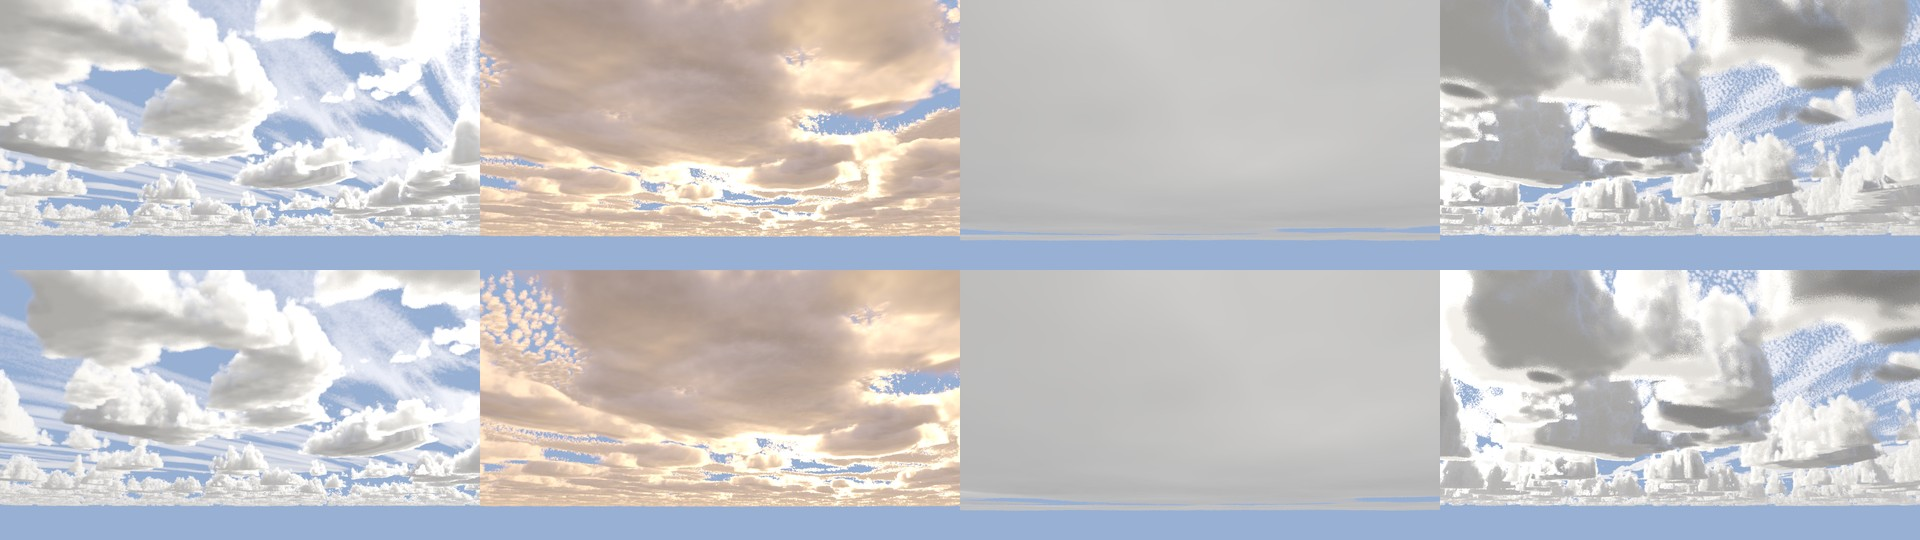
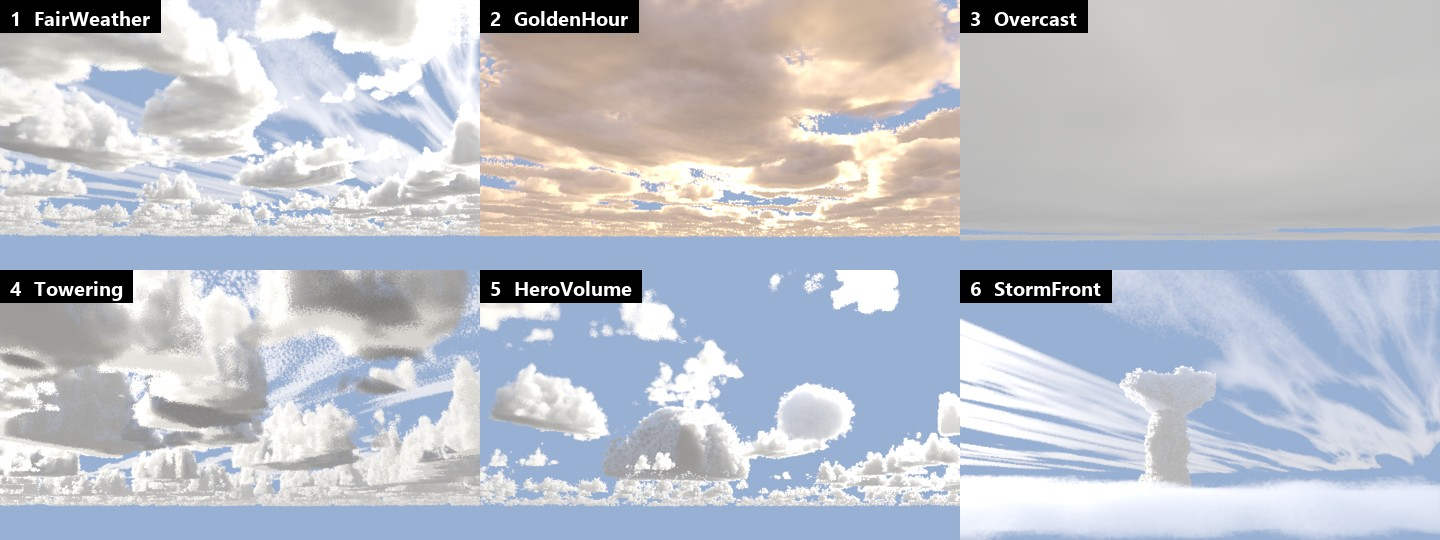
Demo: recompose the placed volumes and refresh the contact sheet
Puff moved clear of the hero cumulus (across 0.75), storm anvil closer and
left of centre (30 km, across -3) so it crosses the frame with the pan, fog
bank pushed back to 7 km so it is a low band under the anvil instead of
filling the lower half. Sheet is 3x2 at frame 1001, 1440x540.

diff --git a/python/build_demo_nk.py b/python/build_demo_nk.py
@@ -43,10 +43,10 @@ SETUPS = [
      {"sun_direction": sun(22, -60)}),
     ("HeroVolume", "Placed hero cumulus over a light cumulus deck, with a puff close by",
      [("Cumulus", {"coverage": 0.3}), ("Hero Cumulus", {"across": -1.5, "wisp_amount": 0.5}),
-      ("Puff", {"across": 0.4, "place_km": 2.5})],
+      ("Puff", {"across": 0.75, "place_km": 2.5})],
      {"sun_direction": sun(30, 40)}),
     ("StormFront", "Storm anvil far off, fog bank rolling in low, cirrus above",
-     [("Storm Anvil", {"across": 6}), ("Fog Bank", {"place_km": 5}), ("Cirrus", {})],
+     [("Storm Anvil", {"across": -3, "place_km": 30}), ("Fog Bank", {"place_km": 7}), ("Cirrus", {})],
      {"sun_direction": sun(18, -45), "sun_intensity": 0.8}),
 ]
 
